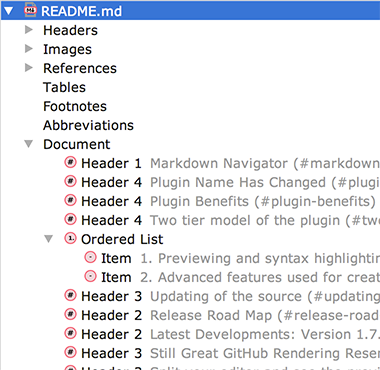
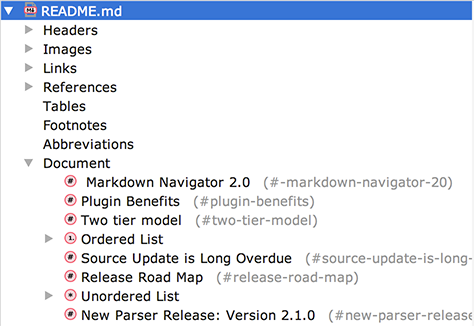
update structure view screenshots

Changed region(s): [[0.0, 0.0, 1.0, 1.0]]

diff --git a/README.md b/README.md
@@ -159,10 +159,11 @@ Recent Additions:
     - Headers to show header hierarchy by level  
       ![Screenshot Structure Headers](assets/images/faq/structure/Screenshot_Structure_Headers.png)
     - Images
+    - Links
     - References
     - Tables
-    - Abbreviations
     - Footnotes
+    - Abbreviations
     - Document section showing all abbreviations, block quotes, footnotes, headers, images,
       lists, references and tables in the document. According to markdown element hierarchy and
       in order of their location in the document.  
